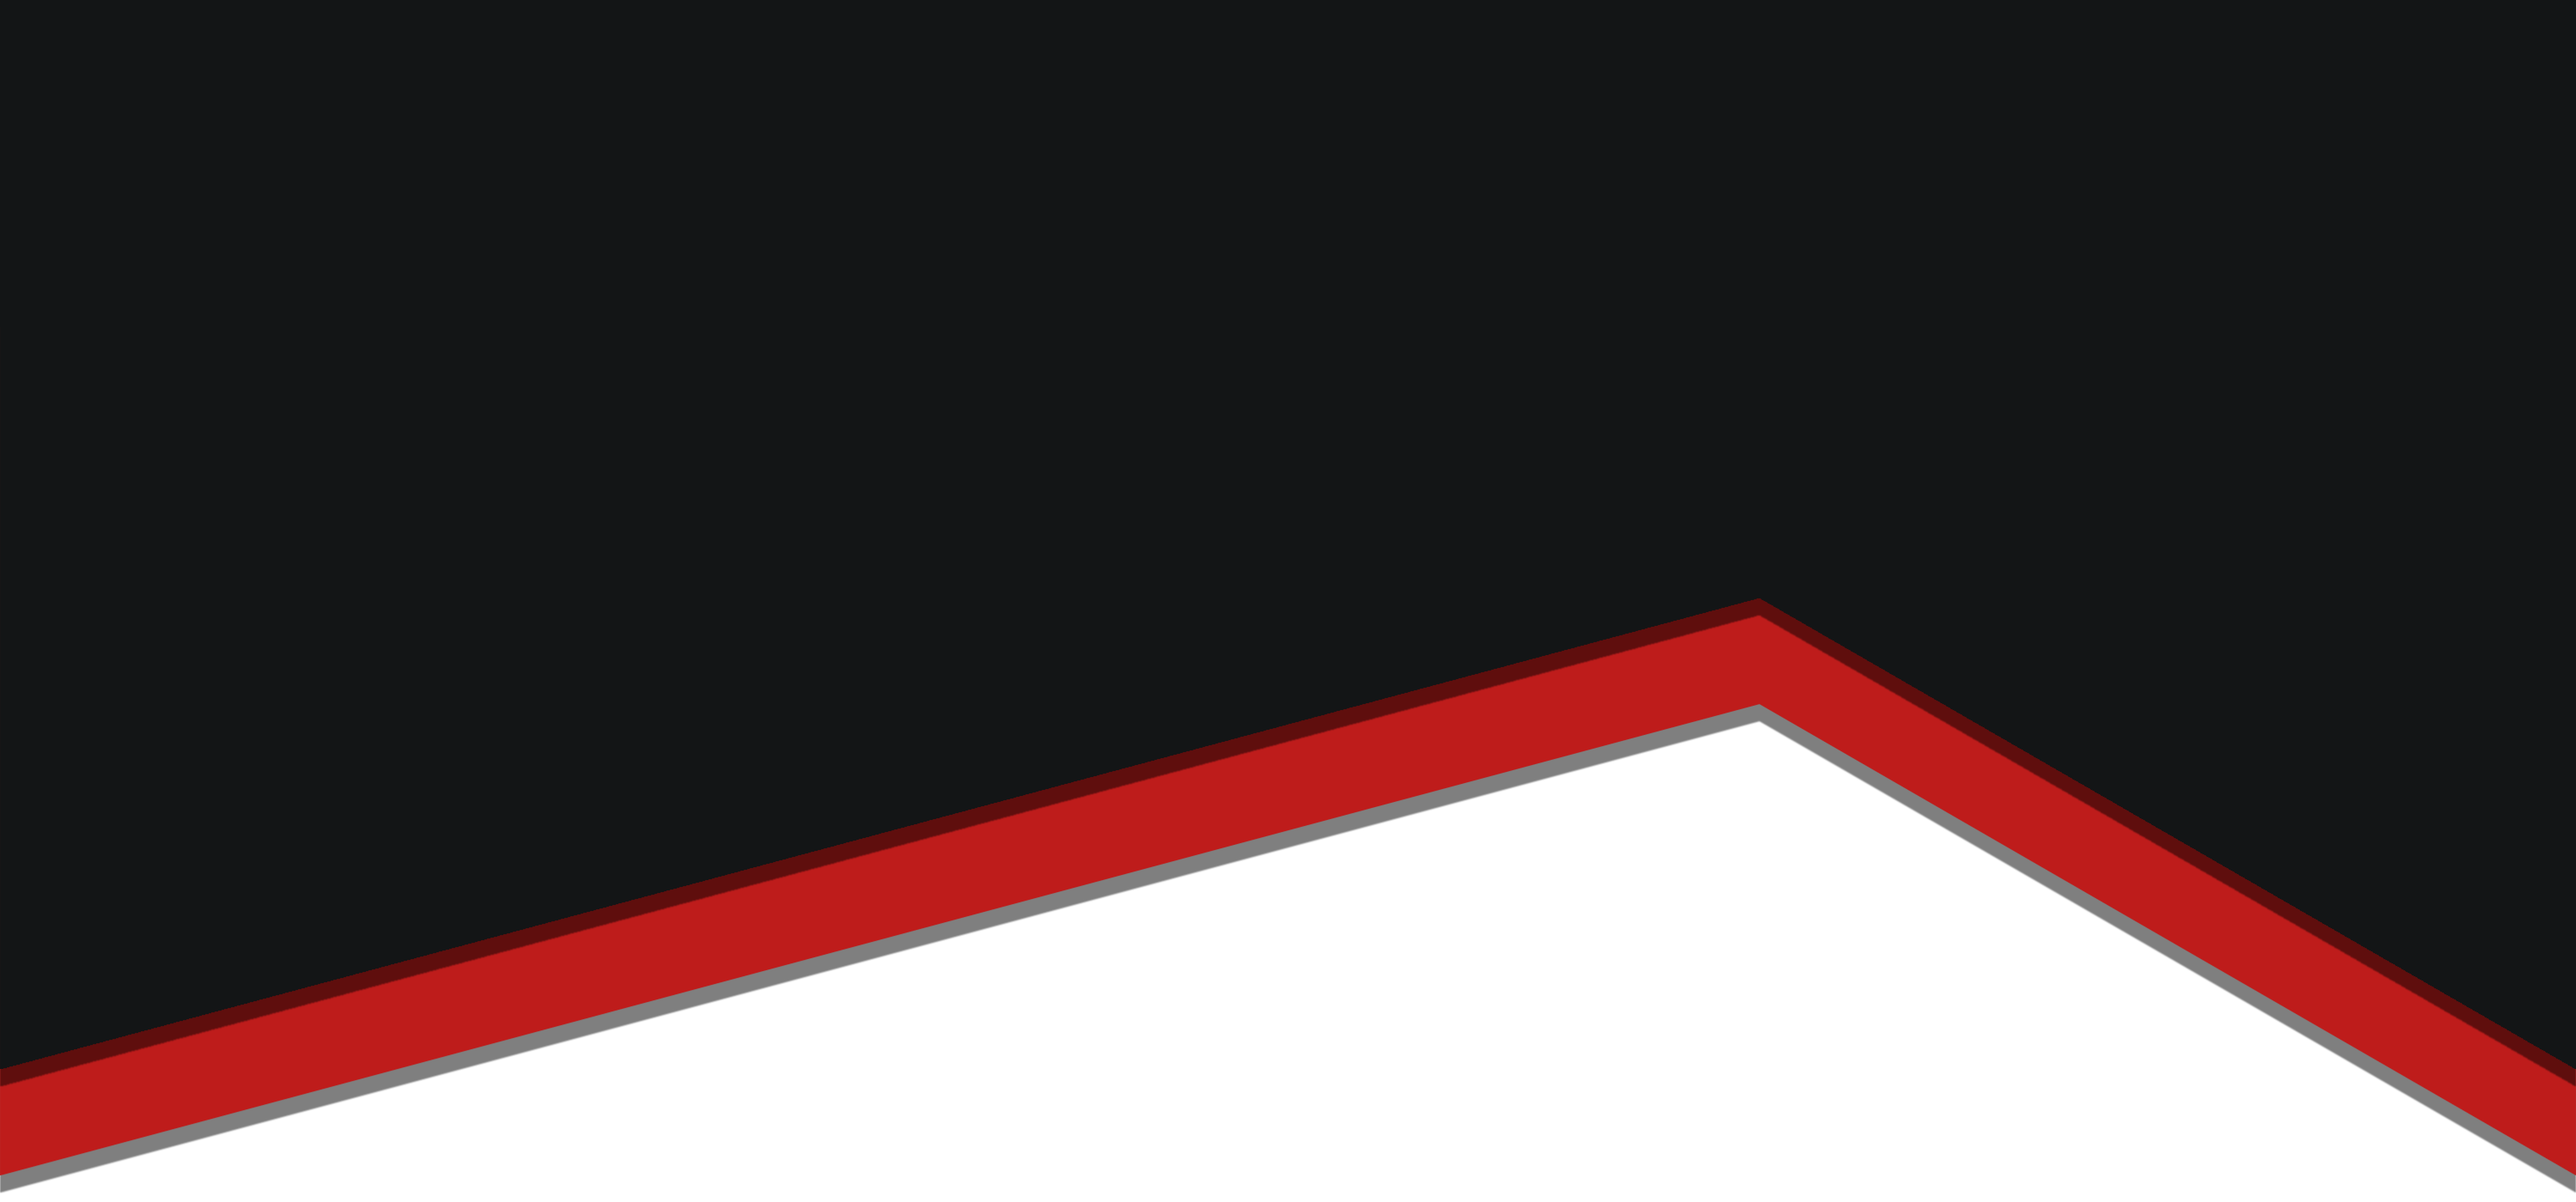
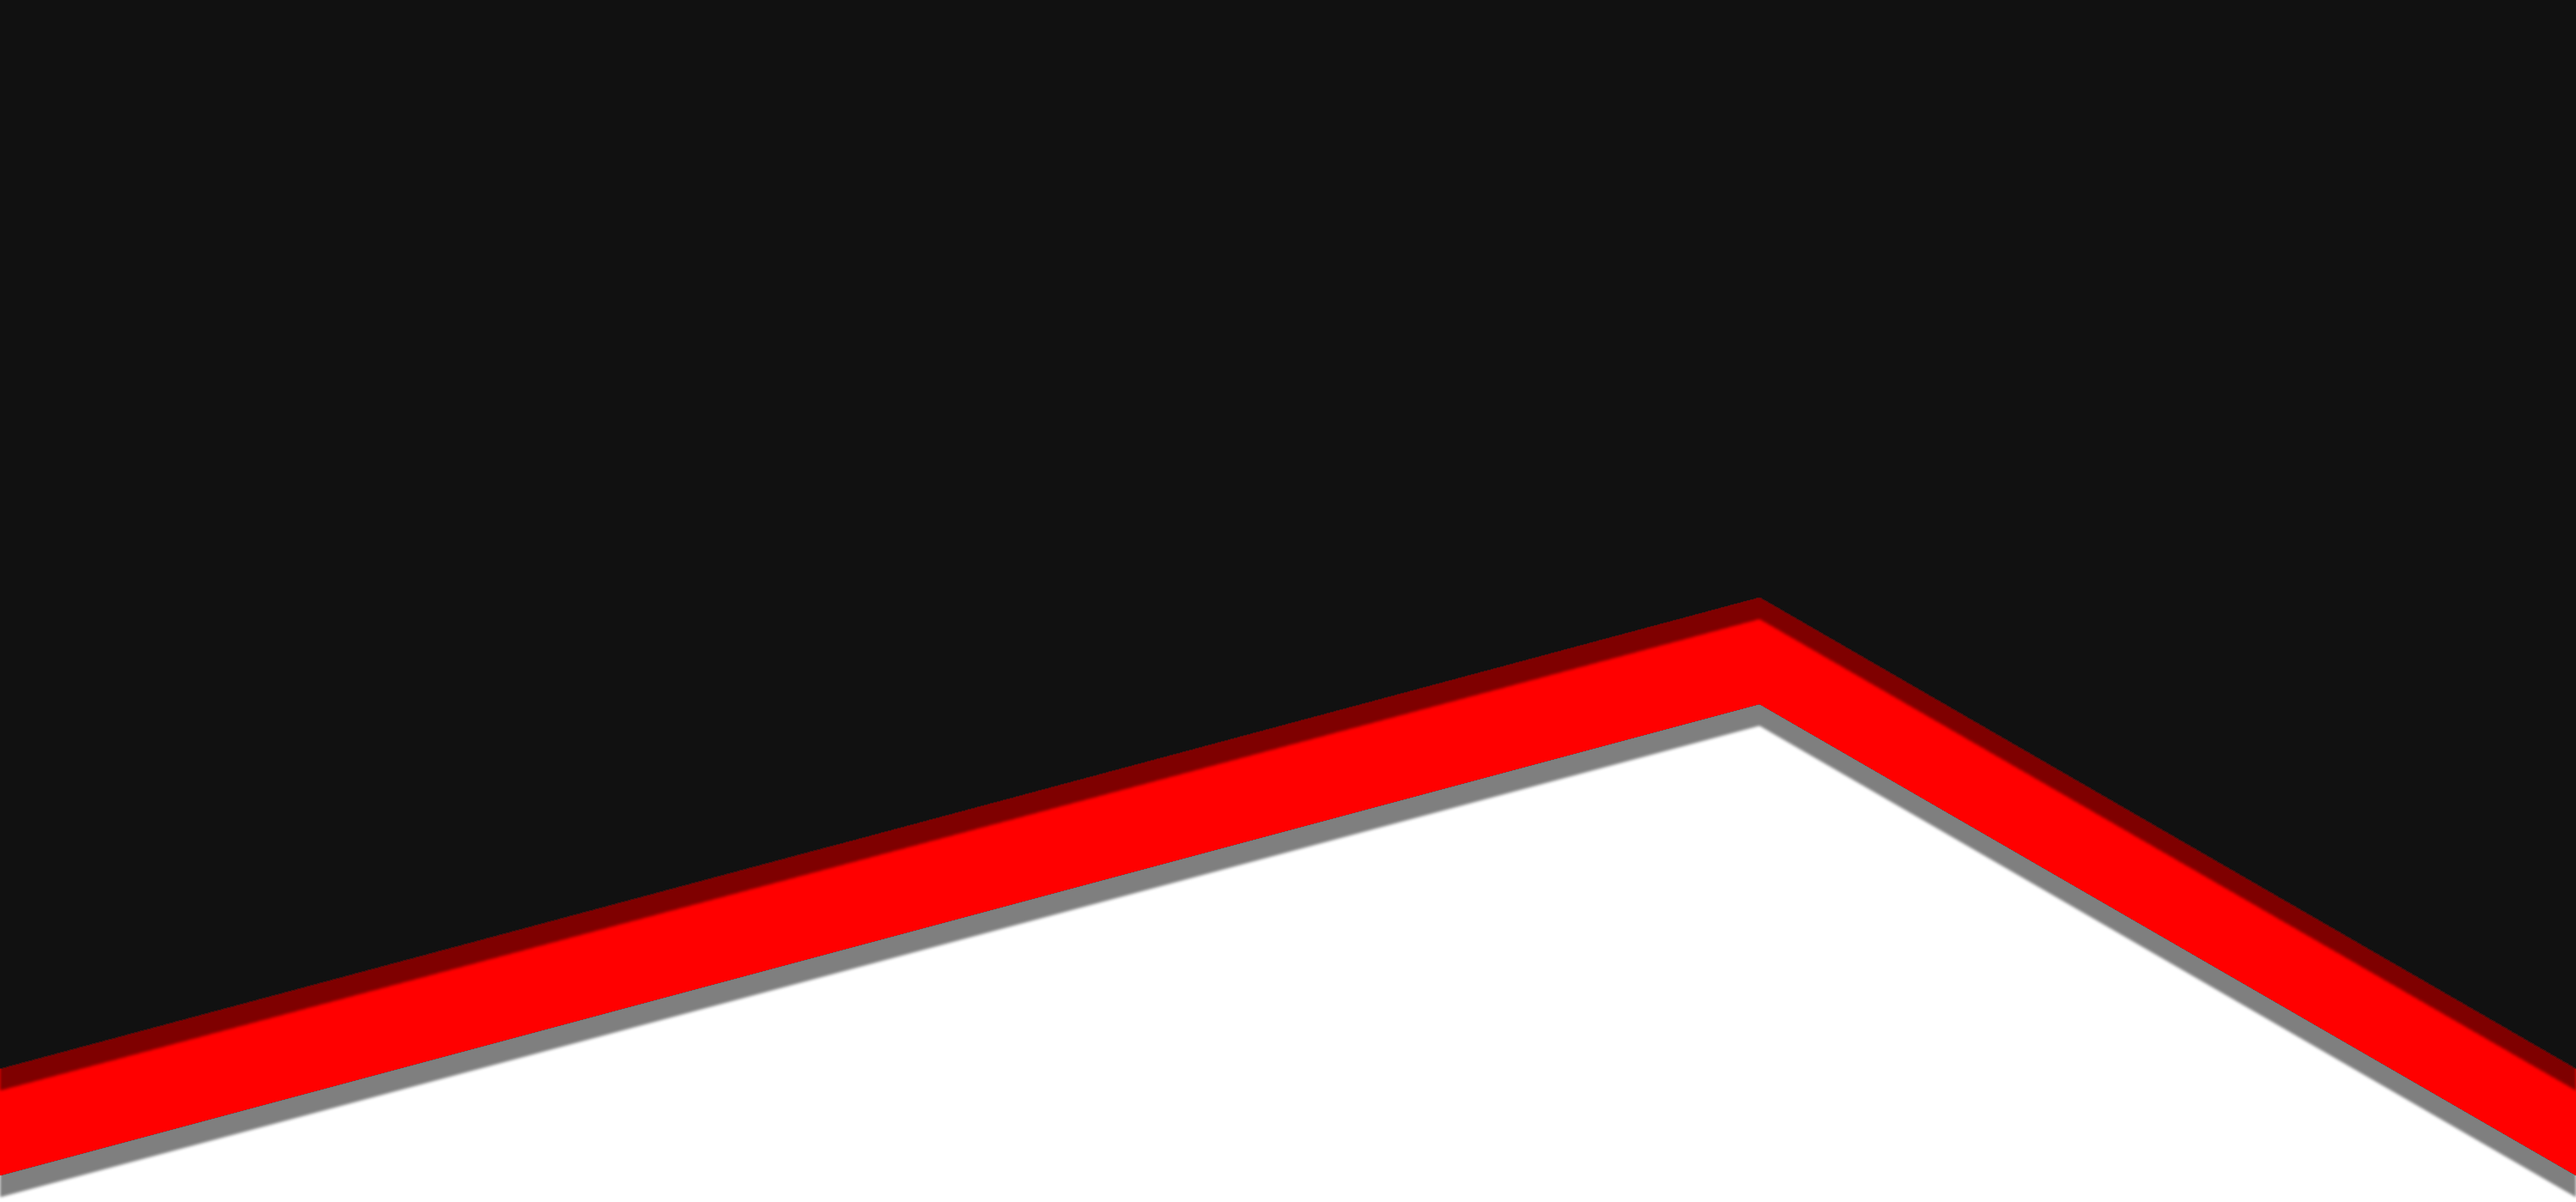
Re-style dashboard

Changed region(s): [[0.0, 0.4914, 1.0, 1.0]]

diff --git a/dashboard/queue/queue.js b/dashboard/queue/queue.js
@@ -1,6 +1,6 @@
 const html = htm.bind(React.createElement)
 
-const websocket = new WebSocket('wss://suitbotxyz.herokuapp.com')
+const websocket = new WebSocket(location.hostname === 'localhost' ? 'ws://localhost' : `wss://${location.hostname}`)
 function send (data) {
   data.guildId = guildId
   data.userId = userId
@@ -102,12 +102,12 @@ function Thumbnail ({ image }) {
 function MusicControls ({ paused, repeatMode }) {
   return html`
     <div>
-      <button className='button square' onClick=${() => { send({ type: 'previous' }) }}><i className='fas fa-backward' /></button>
-      <button className='button square' onClick=${() => { send({ type: 'pause' }) }}><i className=${paused ? 'fas fa-play' : 'fas fa-pause'} /></button>
-      <button className='button square' onClick=${() => { send({ type: 'skip' }) }}><i className='fas fa-forward' /></button>
+      <button className='button icon' onClick=${() => { send({ type: 'previous' }) }}><i className='fas fa-backward' /></button>
+      <button className='button icon' onClick=${() => { send({ type: 'pause' }) }}><i className=${paused ? 'fas fa-play' : 'fas fa-pause'} /></button>
+      <button className='button icon' onClick=${() => { send({ type: 'skip' }) }}><i className='fas fa-forward' /></button>
       <span style=${{ marginRight: '10px' }}></span>
-      <button className='button square' onClick=${() => { send({ type: 'shuffle' }) }}><i className='fas fa-random' /></button>
-      <button className='button square' onClick=${() => { send({ type: 'repeat' }) }}><i className=${repeatMode === 0 ? 'fad fa-repeat-alt' : repeatMode === 1 ? 'fas fa-repeat-1-alt' : 'fas fa-repeat'} /></button>
+      <button className='button icon' onClick=${() => { send({ type: 'shuffle' }) }}><i className='fas fa-random' /></button>
+      <button className='button icon' onClick=${() => { send({ type: 'repeat' }) }}><i className=${repeatMode === 0 ? 'fad fa-repeat-alt' : repeatMode === 1 ? 'fas fa-repeat-1-alt' : 'fas fa-repeat'} /></button>
     </div>
   `
 }
@@ -121,7 +121,7 @@ function VolumeControl (props) {
   return html`
     <div>
       <button className='volume-display' disabled><i className=${volume === 0 ? 'fas fa-volume-off' : volume <= 33 ? 'fas fa-volume-down' : volume <= 66 ? 'fas fa-volume' : 'fas fa-volume-up'} /> ${volume}</button>
-      <input className='volume-slider' type='range' defaultValue=${volume} step='10' min='0' max='100' onInput=${event => { setVolume(event.target.value) }} onMouseUp=${(event => { send({ type: 'volume', volume: event.target.value }) })} />
+      <input className='volume-slider' type='range' defaultValue=${volume} step='1' min='0' max='100' onInput=${event => { setVolume(event.target.value) }} onMouseUp=${(event => { send({ type: 'volume', volume: event.target.value }) })} />
     </div>
   `
 }
@@ -153,7 +153,7 @@ function Queue ({ tracks }) {
         <td><span className='text-nowrap'>${tracks[i].title}</span></td>
         <td><span className='text-nowrap'>${tracks[i].author}</span></td>
         <td><span className='text-nowrap'>${tracks[i].live ? '🔴 Live' : tracks[i].duration}</span></td>
-        <td><span className='text-nowrap'><button className='button square transparent' onClick=${() => { send({ type: 'remove', index: i }) }}><i className='fas fa-trash-alt' /></button><button className='button square transparent' onClick=${() => { send({ type: 'skipto', index: i }) }}><i className='fas fa-forward' /></button></span></td>
+        <td><span className='text-nowrap'><button className='button icon' onClick=${() => { send({ type: 'remove', index: i }) }}><i className='fas fa-trash-alt' /></button><button className='button icon' onClick=${() => { send({ type: 'skipto', index: i }) }}><i className='fas fa-forward' /></button></span></td>
       </tr>
     `)
   }
@@ -162,7 +162,7 @@ function Queue ({ tracks }) {
       <h1 className='queue-title'>Queue</h1>
       <${QueueButtons} />
       <div className='table-responsive'>
-        <table className='table table-dark table-striped'>
+        <table className='table table-dark'>
           <thead>
             <tr>
               <th>#</th>
@@ -204,7 +204,7 @@ function Toast (props) {
 
   if (!toast) { return null }
   return html`
-    <div className="alert alert-${toast.type}" style=${{ opacity: opacity }}>
+    <div className="alert alert-${toast.type}" style=${{ backgroundColor: toast.type === 'danger' ? '#ff0000' : toast.type === 'success' ? '#6cff57' : '#9afffd', opacity: opacity }}>
       <span><i className="fas fa-${toast.type === 'danger' ? 'exclamation' : toast.type === 'success' ? 'check' : 'info'}-circle fa-2x"></i></span><span style=${{ fontSize: '1.2em', marginLeft: '5px' }}>${toast.message}</span>
     </div>
   `

diff --git a/dashboard/websocket.js b/dashboard/websocket.js
@@ -55,7 +55,7 @@ module.exports = {
 
         if (guild.members.cache.get(user.id)?.voice.channel !== guild.me.voice.channel) { return send(ws, { toast: { message: 'You need to be in the same voice channel as the bot to use this command!', type: 'danger' } }) }
 
-        const toast = { message: null, type: 'info' }
+        let toast = null
         switch (data.type) {
           case 'previous': {
             if (queue.currentTime > 5000) {
@@ -64,7 +64,7 @@ module.exports = {
             }
             try {
               await queue.previous()
-              toast.message = 'Skipped to previous song.'
+              toast = { message: 'Skipped to previous song.', type: 'info' }
             } catch (e) {
               await queue.seek(0)
             }
@@ -72,27 +72,26 @@ module.exports = {
           }
           case 'pause': {
             queue.setPaused(!queue.connection.paused)
-            toast.message = queue.connection.paused ? 'Paused.' : 'Resumed.'
+            toast = { message: queue.connection.paused ? 'Paused.' : 'Resumed.', type: 'info' }
             break
           }
           case 'skip': {
             queue.skip()
-            toast.message = 'Skipped.'
+            toast = { message: 'Skipped.', type: 'info' }
             break
           }
           case 'shuffle': {
             queue.shuffle()
-            toast.message = 'Shuffled the queue.'
+            toast = { message: 'Shuffled the queue.', type: 'info' }
             break
           }
           case 'repeat': {
             queue.setRepeatMode(queue.repeatMode === 2 ? 0 : queue.repeatMode + 1)
-            toast.message = `Set repeat mode to "${{ 0: 'None', 1: 'Track', 2: 'Queue' }[queue.repeatMode]}"`
+            toast = { message: `Set repeat mode to "${{ 0: 'None', 1: 'Track', 2: 'Queue' }[queue.repeatMode]}"`, type: 'info' }
             break
           }
           case 'volume': {
             queue.setVolume(data.volume)
-            toast.message = `Set volume to ${data.volume}.`
             break
           }
           case 'play': {
@@ -108,39 +107,38 @@ module.exports = {
               .setFooter({ text: 'SuitBot Web Dashboard', iconURL: client.user.displayAvatarURL() })
 
             if (result.playlist) {
-              toast.message = `Added playlist "${result.title}" to the queue.`
+              toast = { message: `Added playlist "${result.title}" to the queue.`, type: 'success' }
               embed
                 .addField('Amount', `${result.tracks.length} songs`, true)
                 .addField('Author', result.author, true)
                 .addField('Position', `${queue.tracks.indexOf(result.tracks[0]).toString()}-${queue.tracks.indexOf(result.tracks[result.tracks.length - 1]).toString()}`, true)
             } else {
-              toast.message = `Added "${result.title}" to the queue.`
+              toast = { message: `Added "${result.title}" to the queue.`, type: 'success' }
               embed
                 .addField('Duration', result.live ? '🔴 Live' : result.duration, true)
                 .addField('Author', result.author, true)
                 .addField('Position', queue.tracks.indexOf(result).toString(), true)
             }
-            toast.type = 'success'
             queue.channel.send({ embeds: [embed] })
             break
           }
           case 'clear': {
             queue.clear()
-            toast.message = 'Cleared the queue.'
+            toast = { message: 'Cleared the queue.', type: 'info' }
             break
           }
           case 'remove': {
             const track = queue.remove(data.index)
-            toast.message = `Removed track #${data.index}: "${track.title}"`
+            toast = { message: `Removed track #${data.index}: "${track.title}"`, type: 'info' }
             break
           }
           case 'skipto': {
             queue.skip(data.index)
-            toast.message = `Skipped to #${data.index}: "${queue.tracks[1].title}"`
+            toast = { message: `Skipped to #${data.index}: "${queue.tracks[1].title}"`, type: 'info' }
             break
           }
         }
-        send(ws, { toast: toast })
+        if (toast) { send(ws, { toast: toast }) }
       })
 
       ws.on('close', () => {

diff --git a/dashboard/assets/style.css b/dashboard/assets/style.css
@@ -1,11 +1,11 @@
 :root {
-    --background: #212529;
-    --background-light: #373b3e;
-    --background-lighter: #44494d;
-    --text-color: #ffffff;
-    --text-hover: #bbbbbb;
-    --button-color: #373b3e;
-    --button-hover: #212529;
+    --background: #0a0a0a;
+    --background-light: #111111;
+    --background-lighter: #212121;
+    --text-color: #eeeeee;
+    --text-hover: #aaaaaa;
+    --button-color: #232323;
+    --button-hover: #ff0000;
 }
 
 @media (min-width: 992px) { h1.title { font-size: 100px !important; } }
@@ -26,6 +26,7 @@ body {
 a {
     color: var(--text-color);
     text-decoration: none;
+    transition: color 0.5s;
 }
 a:hover {
     color: var(--text-hover);
@@ -58,16 +59,23 @@ a:hover {
 
 /* Card */
 .card {
-    background-color: var(--background-lighter);
+    background-color: var(--background-light);
+    border: 1px solid var(--button-color);
     margin-top: 50px;
     margin-bottom: 50px;
 }
 .card-header {
-    background-color: var(--background-light);
-    color: var(--text-color);
+    background-color: var(--background);
+    border-color: var(--text-color) !important;
 }
 .card-img-top {
     border-radius: 0;
+}
+.server-card {
+    background-color: var(--background-lighter);
+    width: 18rem;
+    margin: 2rem;
+    border-radius: 3px;
 }
 
 /* Buttons */
@@ -77,41 +85,52 @@ a:hover {
     height: 30px;
     margin-right: 5px;
     padding: 0 5px 0 5px;
-    border: 2px solid var(--button-color);
+    border: none;
     border-radius: 5px;
     outline: none;
     vertical-align: middle;
     text-align: center;
+    transition: background-color 0.5s;
 }
 .button:hover {
     background-color: var(--button-hover);
-    border-color: var(--button-hover);
 }
 .button:disabled {
     background-color: var(--button-color);
-    border-color: var(--button-color);
 }
-.button.square {
+.button.icon {
     width: 30px;
-}
-.button.transparent {
     color: var(--text-color);
     background: inherit;
     height: 30px;
     font-size: 20px;
     padding: 0 5px 0 5px;
-    border: 0;
+    border: none;
     outline: none;
     vertical-align: middle;
+    transition: color 0.5s;
 }
-.button.transparent:hover {
+.button.icon:hover {
     color: var(--text-hover);
+}
+
+/* Table */
+.table > :not(caption) > * > * {
+    color: var(--text-color);
+    background-color: var(--background-light);
+}
+th {
+    color: #ff0000 !important;
+}
+td {
+    vertical-align: middle;
 }
 
 .dashboard-button {
     color: var(--text-color);
     background-color: transparent;
     border: 5px solid var(--text-color);
+    transition: background-color 0.5s;
 }
 .dashboard-button:hover {
     color: var(--background);
@@ -122,4 +141,5 @@ a:hover {
 .category-title {
     font-family: 'Bebas Neue', sans-serif;
     font-size: 25px;
+    color: var(--button-hover);
 }

diff --git a/dashboard/queue/queue.css b/dashboard/queue/queue.css
@@ -55,7 +55,7 @@ ul.horizontal-list li {
 
 .progress-container {
     width: 356px;
-    background-color: #373b3e
+    background-color: var(--button-color)
 }
 .progress {
     width: 0;
@@ -71,7 +71,7 @@ ul.horizontal-list li {
     margin-right: 5px;
     padding-left: 5px;
     padding-right: 5px;
-    border: 2px solid var(--button-color);
+    border: none;
     border-radius: 5px;
     outline: none;
     vertical-align: bottom;
@@ -85,16 +85,20 @@ ul.horizontal-list li {
     width: 286px;
     border-radius: 5px;
     cursor: pointer;
-    background: var(--button-color);
+    background-color: var(--button-color);
 }
 .volume-slider::-webkit-slider-thumb, .volume-slider::-moz-range-thumb {
     -webkit-appearance: none;
-    height: 20px;
-    width: 20px;
+    height: 15px;
+    width: 15px;
     border-radius: 100%;
     border-width: 5px;
     border-color: var(--button-color);
-    background: var(--text-color);
+    background-color: var(--text-color);
+    transition: background-color 0.5s;
+}
+.volume-slider:hover::-webkit-slider-thumb, .volume-slider:hover::-moz-range-thumb {
+    background-color: var(--button-hover);
 }
 
 .queue-button-container {
@@ -110,16 +114,9 @@ ul.horizontal-list li {
     height: 30px;
     margin-right: 5px;
     padding: 0 5px;
-    border: 2px solid var(--button-color);
+    border: none;
     border-radius: 5px;
     outline: none;
-}
-
-.table > :not(caption) > * > * {
-    color: var(--text-color);
-    background-color: var(--background-light);
-}
-td {
     vertical-align: middle;
 }
 
